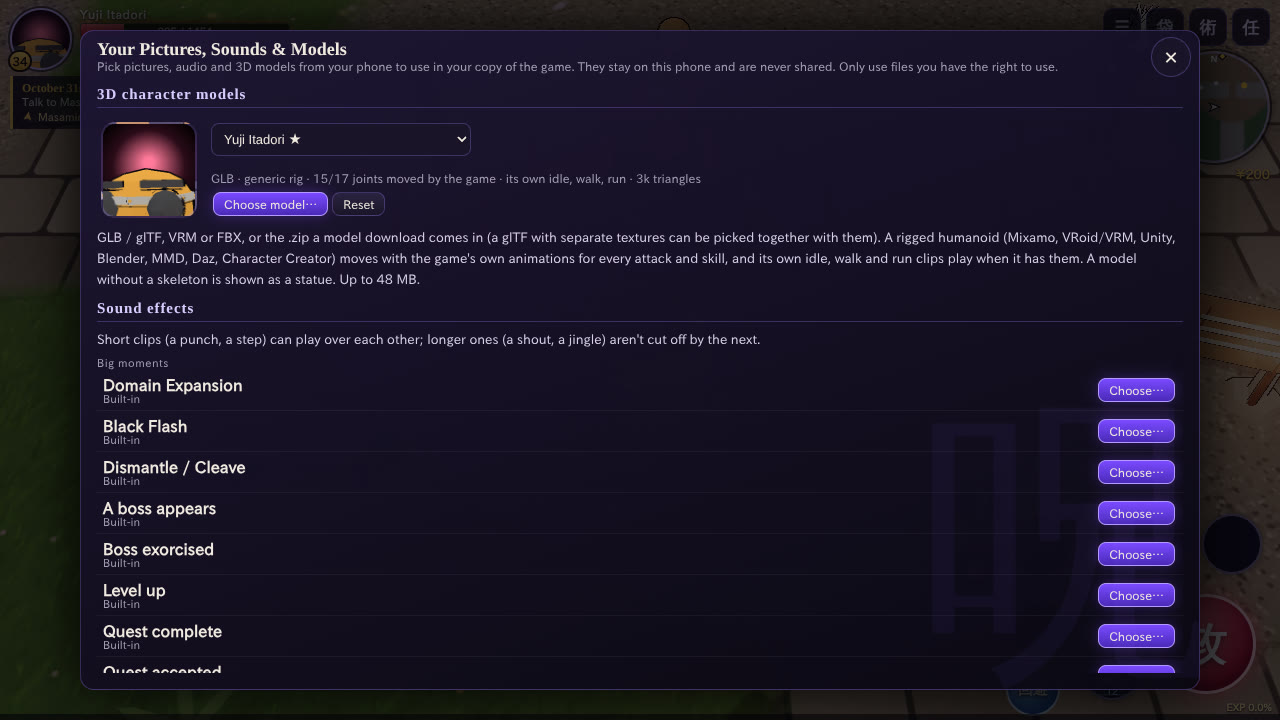
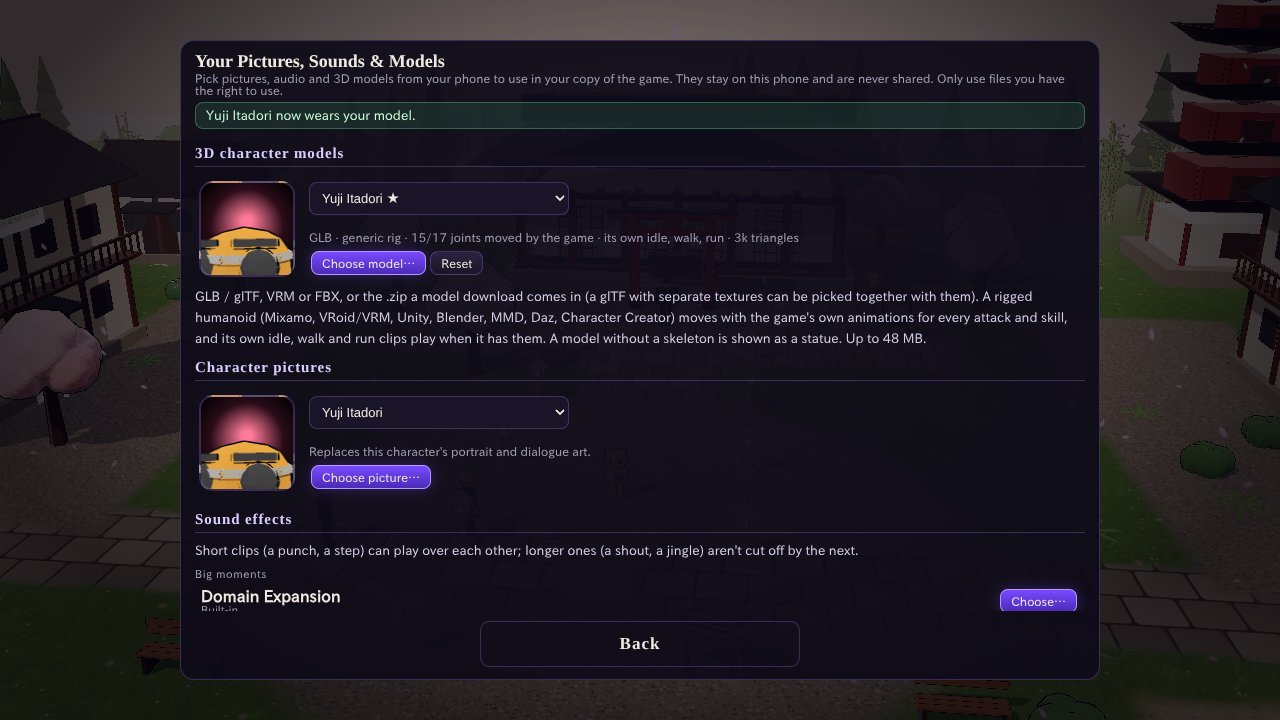
README: 1.7.9 screenshots (quest ring and location line, title Settings)
The model menu picture now shows it in Settings on the title screen.

Claude-Session: https://claude.ai/code/session_01RNDSBy5GbRiHbSC8KqQifq

diff --git a/README.md b/README.md
@@ -64,8 +64,12 @@ game's own animations and stay on the phone.
 
 <table>
   <tr>
+    <td width="50%"><img src="docs/screenshots/quest-ring.jpg" alt="A quest giver's ring and the tracker's location line"><br><sub><b>Where to go</b>: quest givers stand in a glowing ring, and under the compass the tracker says where the objective is</sub></td>
+    <td width="50%"><img src="docs/screenshots/settings.jpg" alt="Settings on the title screen"><br><sub><b>Settings on the title screen</b>: sound, graphics, your own pictures, sounds and models, and the update check</sub></td>
+  </tr>
+  <tr>
     <td width="50%"><img src="docs/screenshots/custom-model.jpg" alt="Your own 3D model in play"><br><sub><b>Your own 3D models</b>: a CC0 robot (RobotExpressive by Tomás Laulhé) worn by Yuji, throwing the game's own uppercut</sub></td>
-    <td width="50%"><img src="docs/screenshots/models-panel.jpg" alt="The 3D model menu"><br><sub><b>Pick a model on your phone</b>: GLB, glTF, VRM or FBX, and the menu says what it recognised</sub></td>
+    <td width="50%"><img src="docs/screenshots/models-panel.jpg" alt="The 3D model menu"><br><sub><b>Pick a model on your phone</b> in Settings on the title screen: GLB, glTF, VRM or FBX, and the menu says what it recognised</sub></td>
   </tr>
   <tr>
     <td width="50%"><img src="docs/screenshots/yuta-domain.jpg" alt="Yuta's Authentic Mutual Love"><br><sub><b>Yuta Okkotsu</b> opens Authentic Mutual Love, a field of katanas, with Rika at his side</sub></td>
